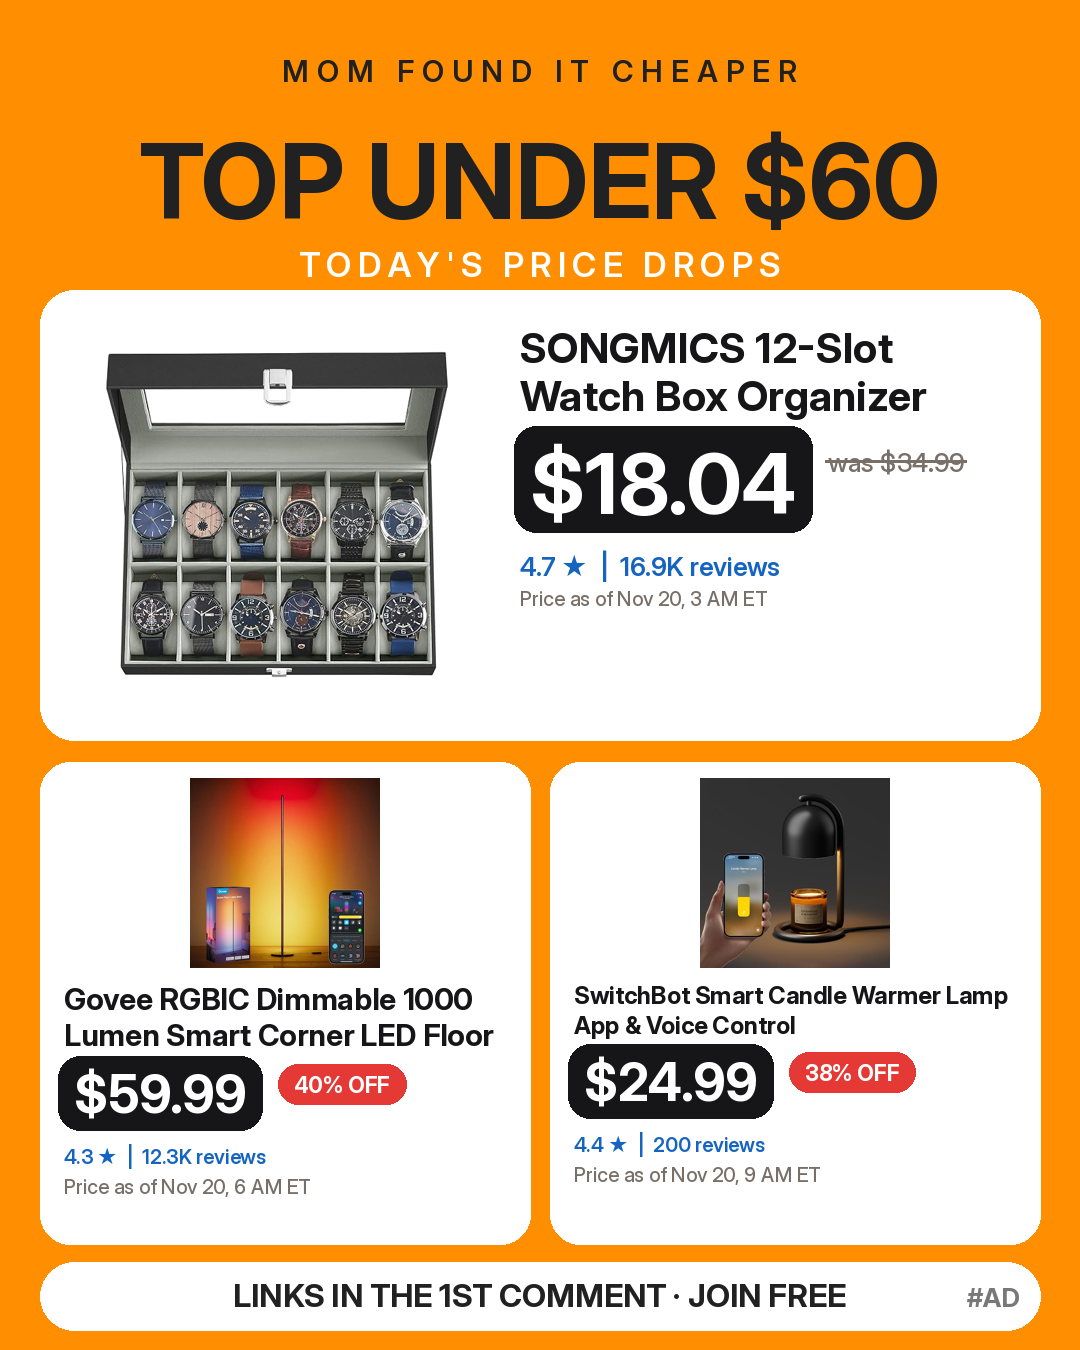
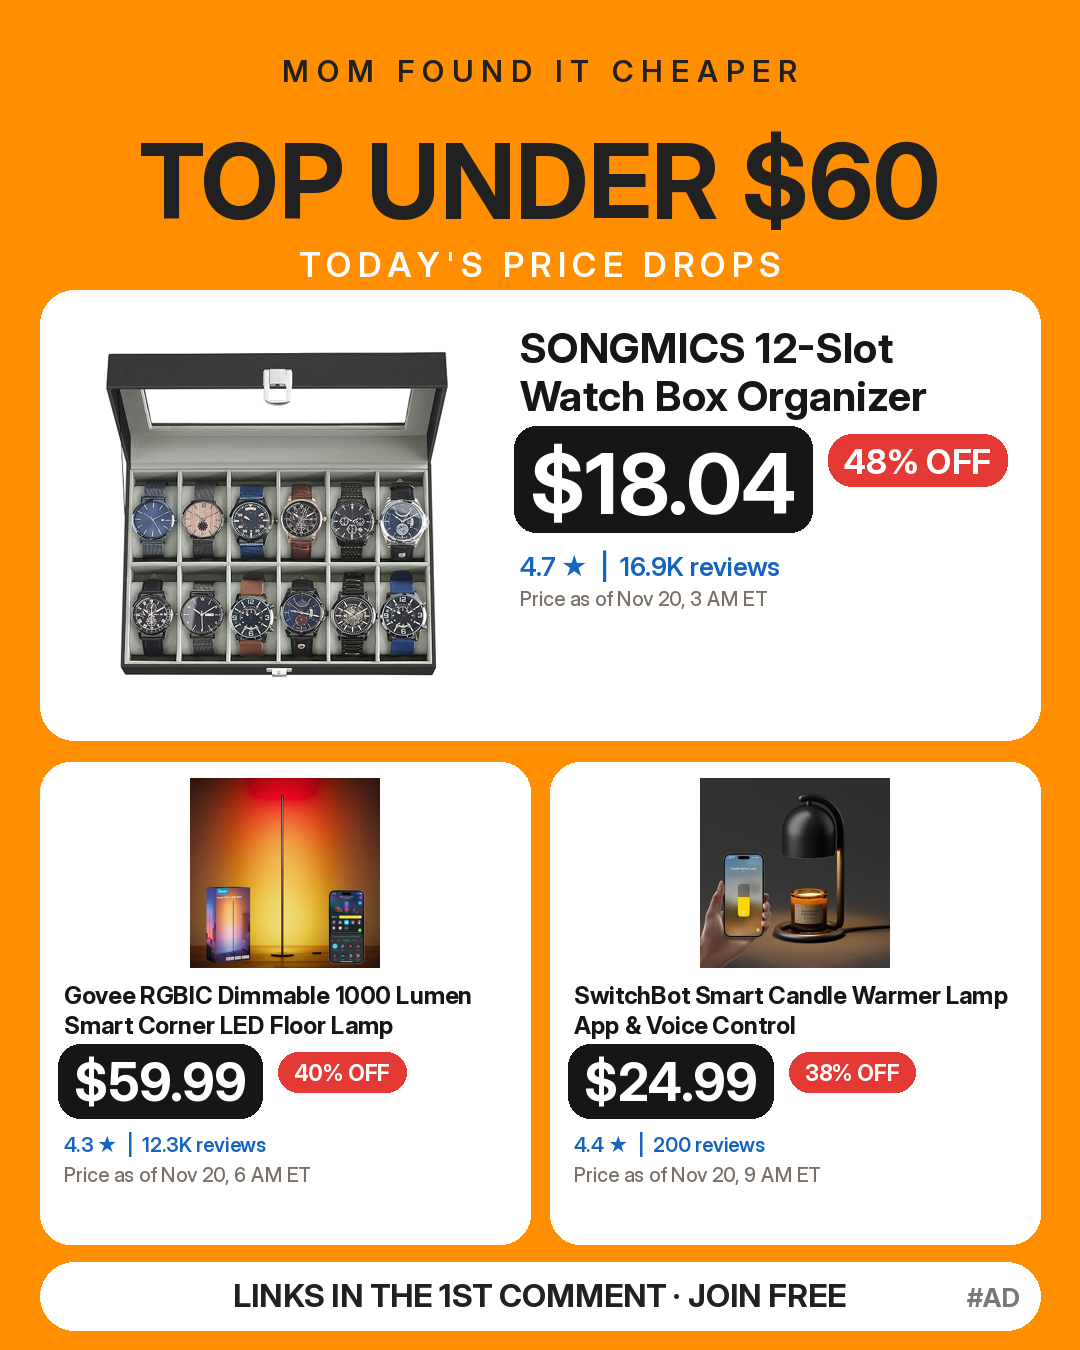
Fix junk prefixes, badge clipping, name caps; regenerate posts
Claude-Session: https://claude.ai/code/session_013VSLL9D9UfzTwCfefZ99QJ

Changed region(s): [[0.0611, 0.7156, 0.4583, 0.9022], [0.7639, 0.3111, 0.9472, 0.3733]]

diff --git a/make_posts.py b/make_posts.py
@@ -138,7 +138,7 @@ def price_groups(deals, made, tiers=(10, 15, 25), exclude=()):
 
 
 AT_RE = re.compile(r"\s+@\w+.*$")
-JUNK_RE = re.compile(r"^(?:AMAZON Select Accounts|Amazon Prime Members|Prime Members):\s*|\s*\((?:Reg\.?|Regularly)[^)]*\)|\s*\+\s*Free Shipping.*$|\s+(?:at|on|from)\s+Amazon\b.*$|\s+or less$|\s+at$", re.I)
+JUNK_RE = re.compile(r"^(?:AMAZON Select Accounts|Amazon Prime Members|Prime Members|Price Drop|Lightning Deal|Deal of the Day|Deal|Sale|Hot|New):\s*|\s*\((?:Reg\.?|Regularly)[^)]*\)|\s*\+\s*Free Shipping.*$|\s+(?:at|on|from)\s+Amazon\b.*$|\s+or less$|\s+at$", re.I)
 def seasonal_groups(deals, made, top=2):
     """Curated posts for the next shopping moments (Thanksgiving, stocking stuffers, game day...)."""
     from seasonal import active, matches
@@ -189,7 +189,7 @@ def tidy(title):
             words.pop()
         t = " ".join(words)
     t = re.split(r",(?!\d)| \(| - | \| | w/ | with ", t)[0]       # product name only: drop spec tails
-    ws = t.split()[:9]
+    ws = t.split()[:11]
     while ws and (ws[-1].lower().strip(",.:;") in _DANGLE or ws[-1].startswith("(") and not ws[-1].endswith(")")):
         ws.pop()                                    # never end on 'and', 'with', '(2nd' ...
     return " ".join(ws).strip(" -,:")
@@ -526,6 +526,8 @@ def _price_row(img, deal, x, y, big, max_w):
     if off >= 10:
         label = f"{off}% OFF"
         bw = d.textlength(label, font=bf) + 32
+        while cx + bw > x + max_w and bf.size > 18:
+            bf = sans(bf.size - 2, "Bold"); bw = d.textlength(label, font=bf) + 32
         if cx + bw <= x + max_w:
             d.rounded_rectangle([cx, y + 8, cx + bw, y + 8 + bf.size + 18], 24, fill=(229, 57, 53))
             d.text((cx + 16, y + 15), label, font=bf, fill=(255, 255, 255))
@@ -619,8 +621,8 @@ def make_image_trio(path, theme, items, cat="Everything else"):
         d.rounded_rectangle([x0, 300, x0 + cw, 1085], 30, fill=(255, 255, 255))
         _photo_into(img, deal, (x0 + 15, 316), (cw - 30, 290))
         d = ImageDraw.Draw(img)
-        d.ellipse([x0 - 8, 292, x0 + 44, 344], fill=CHAR)
-        d.text((x0 + 36 - d.textlength(str(k + 1), font=sans(32, "Bold")) / 2, 298), str(k + 1), font=sans(32, "Bold"), fill=(255, 255, 255))
+        d.ellipse([x0 + 6, 292, x0 + 58, 344], fill=CHAR)
+        d.text((x0 + 50 - d.textlength(str(k + 1), font=sans(32, "Bold")) / 2, 298), str(k + 1), font=sans(32, "Bold"), fill=(255, 255, 255))
         y = _title(d, deal, x0 + 18, 626, cw - 36, 30, 3, 22)
         y = _price_row(img, deal, x0 + 18, y + 8, 56, cw - 36)
         off = pct_off(deal)

diff --git a/POST_QA.md b/POST_QA.md
@@ -16,7 +16,8 @@
 ## post_6 (Tech under $100): ok
 ## post_7 (Top under $60): ok
 ## post_8 (Home & kitchen under $100): ok
-## post_single (Mom's pick): ok
+## post_single (Mom's pick): ok with warnings
+- WARN: caption never names the product: Price Drop: Mini Brands Masterpieces Adv
 ## post_thisorthat (THIS or THAT): BLOCKED
 - BLOCKER: claims 39% off without a valid list price: Monster Energy 15-Pack Only $15.81 Shipp
 ## post_q1 (Quick deal: 34% OFF): ok
